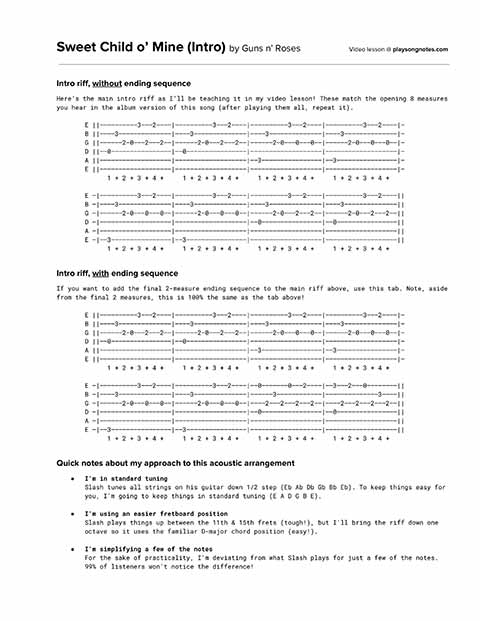
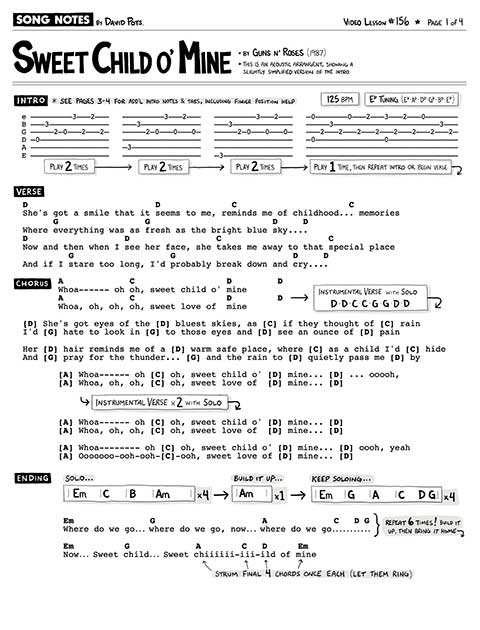
Adds 156 mn url

Changed region(s): [[0.0312, 0.0, 0.9688, 0.9179]]

diff --git a/_lessons/156 [Guns n Roses] Sweet Child o Mine.md b/_lessons/156 [Guns n Roses] Sweet Child o Mine.md
@@ -11,8 +11,9 @@ yt_video_id: 6aMYqAN8FRo
 slug: "156"
 redirect_from:
   - /songs/guns-n-roses-sweet-child-o-mine/
-pdf_version: copyright
-pdf_numpages: 2
+pdf_version: musicnotes
+pdf_numpages: 4
+musicnotes_url: https://www.musicnotes.com/l/gdvMP
 patreon_lesson_available: true
 patreon_lesson_url: https://www.patreon.com/posts/27269521
 ---
@@ -27,7 +28,11 @@ patreon_lesson_url: https://www.patreon.com/posts/27269521
 
 ## Editor's notes
 
-In this video I'll teach you how to play the intro riff of "Sweet Child O' Mine" by Guns N' Roses, simplified for an acoustic guitar. I'll show you the tabs needed for this riff, walking you through exactly how to go about learning this for the first time (I'll be using standard tuning). I hope you enjoy!
+In this video I'll teach you how to play the intro riff of "Sweet Child O' Mine" by Guns N' Roses, simplified for an acoustic guitar. I'll show you the tabs needed for this riff, walking you through exactly how to go about learning this for the first time (I'll be using standard tuning).
+
+In my 4-page song sheet, I also include the lyrics, chord shapes, chord progressions, and strumming patterns for this entire song -- in addition to two full pages with my notes on the intro riff (which I teach in the video above). Note, the song sheet does not include the tabs for Slash's solos -- as that is it's own beast I haven't tackled yet.
+
+I hope you enjoy!
 
 ## Quick notes about my acoustic arrangement
 
@@ -39,86 +44,3 @@ Slash plays things up between the 11th & 15th frets (tough!), but I'll bring the
 
 👉 *I'm simplifying a few of the notes*
 For the sake of practicality, I'm deviating from what Slash plays for just a few of the notes. 99% of listeners won't notice the difference!
-
-## Intro riff (without ending sequence)
-
-Here's the main intro riff as I'll be teaching it in my video lesson! These match the opening 8 measures you hear in the album version of this song (after playing them all, repeat it).
-
-    E ||––––––––––3–––2––––|––––––––––3–––2––––|––––––––––3–––2––––|––––––––––3–––2––––|–
-    B ||––––3––––––––––––––|––––3––––––––––––––|––––3––––––––––––––|––––3––––––––––––––|–
-    G ||––––––2–0–––2–––2––|––––––2–0–––2–––2––|––––––2–0–––0–––0––|––––––2–0–––0–––0––|–
-    D ||––0––––––––––––––––|––0––––––––––––––––|–––––––––––––––––––|–––––––––––––––––––|–
-    A ||–––––––––––––––––––|–––––––––––––––––––|––3––––––––––––––––|––3––––––––––––––––|–
-    E ||–––––––––––––––––––|–––––––––––––––––––|–––––––––––––––––––|–––––––––––––––––––|–
-          1 + 2 + 3 + 4 +     1 + 2 + 3 + 4 +     1 + 2 + 3 + 4 +     1 + 2 + 3 + 4 +
-
-    E –|––––––––––3–––2––––|––––––––––3–––2––––|––––––––––3–––2––––|––––––––––3–––2––––||
-    B –|––––3––––––––––––––|––––3––––––––––––––|––––3––––––––––––––|––––3––––––––––––––||
-    G –|––––––2–0–––0–––0––|––––––2–0–––0–––0––|––––––2–0–––2–––2––|––––––2–0–––2–––2––||
-    D –|–––––––––––––––––––|–––––––––––––––––––|––0––––––––––––––––|––0––––––––––––––––||
-    A –|–––––––––––––––––––|–––––––––––––––––––|–––––––––––––––––––|–––––––––––––––––––||
-    E –|––3––––––––––––––––|––3––––––––––––––––|–––––––––––––––––––|–––––––––––––––––––||
-          1 + 2 + 3 + 4 +     1 + 2 + 3 + 4 +     1 + 2 + 3 + 4 +     1 + 2 + 3 + 4 +
-
-## Intro riff (with ending sequence)
-
-If you want to add the final 2-measure ending sequence to the main riff above, use this tab. Note, aside from the final 2 measures, this is 100% the same as the tab above!
-
-    E ||––––––––––3–––2––––|––––––––––3–––2––––|––––––––––3–––2––––|––––––––––3–––2––––|–
-    B ||––––3––––––––––––––|––––3––––––––––––––|––––3––––––––––––––|––––3––––––––––––––|–
-    G ||––––––2–0–––2–––2––|––––––2–0–––2–––2––|––––––2–0–––0–––0––|––––––2–0–––0–––0––|–
-    D ||––0––––––––––––––––|––0––––––––––––––––|–––––––––––––––––––|–––––––––––––––––––|–
-    A ||–––––––––––––––––––|–––––––––––––––––––|––3––––––––––––––––|––3––––––––––––––––|–
-    E ||–––––––––––––––––––|–––––––––––––––––––|–––––––––––––––––––|–––––––––––––––––––|–
-          1 + 2 + 3 + 4 +     1 + 2 + 3 + 4 +     1 + 2 + 3 + 4 +     1 + 2 + 3 + 4 +
-
-    E –|––––––––––3–––2––––|––––––––––3–––2––––|––0–––––––0–––2––––|––3–––2–––0––––––––||
-    B –|––––3––––––––––––––|––––3––––––––––––––|––––––3––––––––––––|––––––––––––––3––––||
-    G –|––––––2–0–––0–––0––|––––––2–0–––0–––0––|––––2–––2–––2–––2––|––––2–––2–––2–––2––||
-    D –|–––––––––––––––––––|–––––––––––––––––––|––0––––––––––––––––|––0––––––––––––––––||
-    A –|–––––––––––––––––––|–––––––––––––––––––|–––––––––––––––––––|–––––––––––––––––––||
-    E –|––3––––––––––––––––|––3––––––––––––––––|–––––––––––––––––––|–––––––––––––––––––||
-          1 + 2 + 3 + 4 +     1 + 2 + 3 + 4 +     1 + 2 + 3 + 4 +     1 + 2 + 3 + 4 +
-
-## The fingerpicking sequences you'll need
-
-The full intro riff, tabbed above, uses these three sequences. Each pattern is played repeated (played twice in a row), before moving to the next sequence. I share this so you understand: these 3 measures are all you need to learn! Once you've mastered them, simply repeat them as needed and you're good to go.
-
-         Sequence 1             Sequence 2             Sequence 3
-
-    E ||––––––––––3–––2––––   ––––––––––3–––2––––    ––––––––––3–––2––––    
-    B ||––––3––––––––––––––   ––––3––––––––––––––    ––––3––––––––––––––    
-    G ||––––––2–0–––2–––2––   ––––––2–0–––0–––0––    ––––––2–0–––0–––0––    
-    D ||––0––––––––––––––––   –––––––––––––––––––    –––––––––––––––––––    
-    A ||–––––––––––––––––––   ––3––––––––––––––––    –––––––––––––––––––    
-    E ||–––––––––––––––––––   –––––––––––––––––––    ––3––––––––––––––––    
-          1 + 2 + 3 + 4 +       1 + 2 + 3 + 4 +        1 + 2 + 3 + 4 +      
-
-There's also this optional "ending" sequence that you can use for the final 2 measures of the riff. If you want to use this, here's the isolated tab:
-
-    E ||––0–––––––0–––2––––|––3–––2–––0––––––––
-    B ||––––––3––––––––––––|––––––––––––––3––––
-    G ||––––2–––2–––2–––2––|––––2–––2–––2–––2––
-    D ||––0––––––––––––––––|––0––––––––––––––––
-    A ||–––––––––––––––––––|–––––––––––––––––––
-    E ||–––––––––––––––––––|–––––––––––––––––––
-          1 + 2 + 3 + 4 +     1 + 2 + 3 + 4 +
-
-## Understanding chord shapes of each fingerpicking sequence
-
-When digging into the fingerpicking patterns used in this song, I recommend starting by learning these positions. Get used to switching to these chord shapes -- because all the fingerpicking magic you'll add later (with your right hand) will require your left hand to be in these positions.
-
-         Sequence 1             Sequence 2             Sequence 3
-
-    E ||–(2)–––––––––––––––   –––––––––––––––––––    –––––––––––––––––––
-    B ||––3––––––––––––––––   ––3––––––––––––––––    ––3––––––––––––––––
-    G ||––2––––––––––––––––   ––2––––––––––––––––    ––2––––––––––––––––
-    D ||––0––––––––––––––––   –––––––––––––––––––    –––––––––––––––––––
-    A ||–––––––––––––––––––   ––3––––––––––––––––    –––––––––––––––––––
-    E ||–––––––––––––––––––   –––––––––––––––––––    ––3––––––––––––––––
-          1 + 2 + 3 + 4 +       1 + 2 + 3 + 4 +        1 + 2 + 3 + 4 +
-
-
-## Good luck!
-
-Thanks for reading! I hope this helped you. If you'd like to learn how to play the full song beyond this riff, let me know!

diff --git a/backlog.md b/backlog.md
@@ -18,34 +18,29 @@ permalink: /backlog/
 
 Here's the songs I've most recently re-listed for purchase at Musicnotes.com. Each arrangement is officially licensed & legal, and also uses my latest sheet music formatting.
 
-    Apr 14 - Danny's Song
-    Apr 12 - Highwayman
-    Apr 12 - Last Kiss
-    Apr 11 - Badlands
-    Apr 7  - A Million Dreams
-    Apr 6  - Banded Clovis
-    Apr 5  - Walk Right In
-    Mar 6  - Lola
-    Mar 1  - Under the Bridge
-    Feb 8  - Me and Bobby McGee
-    Feb 7  - Whitehouse Road
-    Feb 1  - I've Been Everywhere
-    Jan 31 - Tuesday's Gone
-    Jan 18 - Wildflowers
-    Jan 11 - If I Had a Boat
-    Jan 4  - The Wind
-    Jan 4  - Dead Flowers
-    Dec 10 - Yesterday
-    Nov 30 - Happy Xmas
-    Nov 23 - Mrs Robinson
-    Nov 22 - Hotel California
-    Nov 12 - Hello In There
-    Nov 4  - Copperhead Road
-    Nov 2  - Please Come Home for Christmas
-    Nov 2  - Lady May
-    Oct 27 - Under the Milky Way Tonight
-    Oct 27 - Imagine
-    Oct 26 - Last Christmas
+- Apr 16 - [Sweet Child O' Mine](https://playsongnotes.com/lessons/156/)
+- Apr 14 - [Danny's Song](https://playsongnotes.com/lessons/95/)
+- Apr 12 - [Highwayman](https://playsongnotes.com/lessons/55/)
+- Apr 12 - [Last Kiss](https://playsongnotes.com/lessons/87/)
+- Apr 11 - [Badlands](https://playsongnotes.com/lessons/44/)
+- Apr 7  - [A Million Dreams](https://playsongnotes.com/lessons/128/)
+- Apr 6  - [Banded Clovis](https://playsongnotes.com/lessons/291/)
+- Apr 5  - [Walk Right In](https://playsongnotes.com/lessons/277/)
+- Mar 6  - [Lola](https://playsongnotes.com/lessons/427/)
+- Mar 1  - [Under the Bridge](https://playsongnotes.com/lessons/419/)
+- Feb 8  - [Me and Bobby McGee](https://playsongnotes.com/lessons/114/)
+- Feb 7  - [Whitehouse Road](https://playsongnotes.com/lessons/109/)
+- Feb 1  - [I've Been Everywhere](https://playsongnotes.com/lessons/170/)
+- Jan 31 - [Tuesday's Gone](https://playsongnotes.com/lessons/100/)
+- Jan 18 - [Wildflowers](https://playsongnotes.com/lessons/232/)
+- Jan 11 - [If I Had a Boat](https://playsongnotes.com/lessons/229/)
+- Jan 4  - [The Wind](https://playsongnotes.com/lessons/254/)
+- Jan 4  - [Dead Flowers](https://playsongnotes.com/lessons/79/)
+- Dec 10 - [Yesterday](https://playsongnotes.com/lessons/242/)
+- Nov 30 - [Happy Xmas](https://playsongnotes.com/lessons/35/)
+- Nov 23 - [Mrs Robinson](https://playsongnotes.com/lessons/51/)
+- Nov 22 - [Hotel California](https://playsongnotes.com/lessons/31/)
+- Nov 12 - [Hello In There](https://playsongnotes.com/lessons/295/)
 
 <br /><br />
 
@@ -63,7 +58,7 @@ Here's the songs I've most recently re-listed for purchase at Musicnotes.com. Ea
 
     Always Remember Us This Way XXXXXXXXXXX
     American Girl               XXXXXXXX
-    California Dreaming         XXXXXXXX
+    California Dreaming         XXXXXXXXX
     Creep                       XXXXXXXXXX
     Feeling Whitney             XXXXXXXXXX
     Game of Thrones (theme)     XXXXXXXXXX
@@ -74,7 +69,6 @@ Here's the songs I've most recently re-listed for purchase at Musicnotes.com. Ea
     My Fav. Picture of You      XXXXXXX
     My Old Kentucky Home        XXXXXXXX
     Sedona                      XXXXXXX
-    Sweet Child o Mine          XXXXXXXXXXXXX
     Total Eclipse of the Heart  XXXXXXX
 
 <br />
